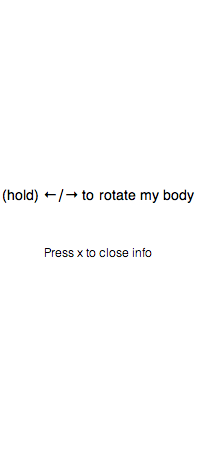
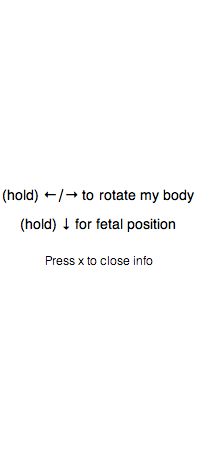
ok

Changed region(s): [[0.0909, 0.4595, 0.9091, 0.5821]]

diff --git a/self_portrait/self_portrait.js b/self_portrait/self_portrait.js
@@ -11,7 +11,7 @@ function preload() {
     this.game.scale.refresh();
     
     game.load.image('infosheet', 'infosheet.png')
-    game.load.spritesheet('gregor', 'gregor.png', 198, 439, 11);
+    game.load.spritesheet('gregor', 'gregor.png', 198, 439, 17);
     
     game.load.audio('music', [ 'music.mp3', 'music.ogg' ]);
 }
@@ -33,12 +33,21 @@ function create() {
     Xkey = game.input.keyboard.addKey(Phaser.Keyboard.X);
     
      gregor.animations.add('anti', [0, 1, 2, 3, 4, 5, 6, 7, 8, 9, 10], 7, false, true);
+     gregor.animations.add('fetaldown', [10, 11, 12, 13, 14, 15, 16, 16, 16, 16, 16, 16, 16, 16, 16, 16, 16, 16, 16, 16, 16, 16, 16, 16, 16, 16, 16, 16, 16, 16, 16, 16, 16, 16, 16, 16, 16, 16, 16, 16, 16, 16, 16, 16, 16, 16, 16, 16, 16, 16, 16, 16, 16, 16, 16, 16, 16, 16, 16, 16, 16, 16, 16, 16, 16, 16, 16, 16, 16, 16, 16, 16, 16, 16, 16, 16, 16, 16, 16, 16, 16, 16, 16, 16, 16, 16, 16, 16, 16, 16, 16, 16, 16, 16, 16, 16, 16, 16, 16, 16, 16, 16, 16, 16, 16, 16, 16, 16, 16, 16, 16, 16, 16, 16, 16, 16, 16, 16, 16, 16, 16, 16, 16, 16, 16, 16, 16, 16, 16, 16, 16, 16, 16, 16, 16, 16, 16, 16, 16, 16, 16, 16, 16, 16, 16, 16, 16, 16, 16, 16, 16, 16, 16, 16, 16, 16, 16, 16, 16], 7, false, true);
+     gregor.animations.add('fetalup', [16, 15, 14, 13, 12, 11, 10], 7, false, true);
      gregor.animations.add('clock', [10, 9, 8, 7, 6, 5, 4, 3, 2, 1, 0], 7, false, true);
+     gregor.animations.add('stay', [10], 7, false, true);
+     
     
     
 }
 
 function update(){ 
+    
+    var wasdown;
+    wasdown = 0;
+    
+    //cursors.down.onUp.add(playfetalup);
     
     if (ikey.isDown){
         var infosheet = game.add.sprite(0, 0, 'infosheet');
@@ -64,7 +73,30 @@ function update(){
         
     }
     
+    else if (cursors.down.isDown){
+        
+        gregor.animations.play('fetaldown');
+        wasdown = 0;
+        
+    }
+    
+    //else if (cursors.up.isDown){
+       // if (wasdown = 1){
+        //    gregor.animations.play('fetalup');
+        //    wasdown = 2;
+      //  }
+      //  else{
+       //     gregor.animations.play('stay');
+      //  }
+  //  }
+    
+    
     else{
         gregor.animations.stop();
     }
+    
 }
+
+//function playfetalup() {
+  //  gregor.animations.play('fetalup');
+    //gregor.animations.stop();
